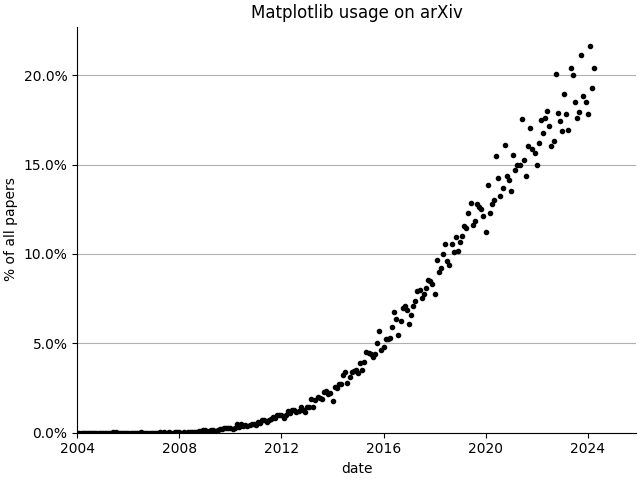
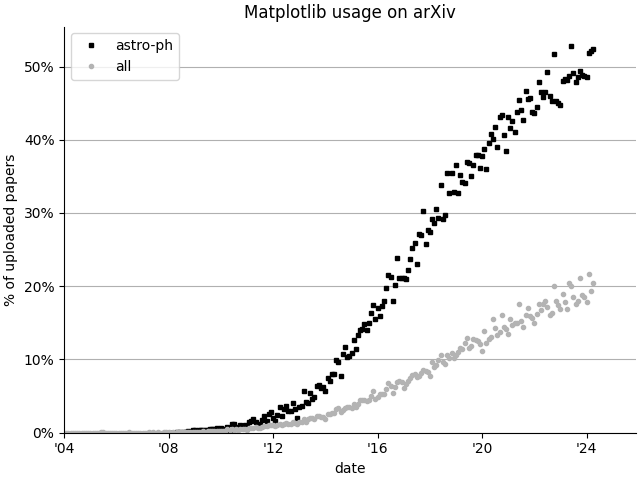
ENH: add a script that filters to just astro-ph

diff --git a/by_cat.py b/by_cat.py
@@ -1,0 +1,137 @@
+import datetime
+from functools import lru_cache
+import time
+import hashlib
+from pathlib import Path
+
+import matplotlib.pyplot as plt
+from matplotlib.ticker import PercentFormatter
+import matplotlib as mpl
+
+import numpy as np
+import pandas as pd
+
+import requests
+import feedparser
+import tqdm
+
+mpl.rcParams["date.autoformatter.year"] = "'%y"
+
+# read data
+raw_data = pd.read_parquet("results.parquet")
+Path("cache").mkdir(exist_ok=True)
+
+
+@lru_cache(10240)
+def get(url):
+    # wrap requests.get in caching + rate limiting
+    fn = hashlib.md5(url.encode()).hexdigest()
+    cache_path = Path("cache") / fn
+    if cache_path.exists():
+        with open(cache_path) as fin:
+            return fin.read()
+
+    ret = requests.get(url)
+    with open(cache_path, "w") as fout:
+        fout.write(ret.text)
+
+    # arxiv as a on-your-honor rate limit at 1 per 3s (!!)
+    time.sleep(3)
+    return ret.text
+
+
+def entry_to_id(entry):
+    """Convert id in entry into id extracted from pdf filenames."""
+    if not entry["guidislink"]:
+        raise ValueError
+    arxivid, v, _ = entry["id"][21:].partition("v")
+    return arxivid
+
+
+res = {}
+# this is very long (10hr+) the first time it is run, the caching helps
+for month in tqdm.tqdm(
+    [f"20{year:02d}-{month:02d}-01" for year in range(8, 25) for month in range(1, 13)]
+):
+    print(month)
+    # in 2009 astro-ph was split into 6 sub-categories
+    if month < "2009-01":
+        cats = "cat:astro-ph"
+    else:
+        cats = "+OR+".join(
+            f"cat:astro-ph.{sc}" for sc in "GA,CO,EP,HE,IM,SR".split(",")
+        )
+    parsed = []
+    one_month = raw_data[raw_data["date"] == month]
+    if not len(one_month):
+        continue
+    one_month.insert(0, "arxiv_id", one_month["filename"].str[5:-4])
+    # do in 150 paper chunks to stay below maximum URL length
+    for j in tqdm.tqdm(range(0, len(one_month), 150)):
+        ids = ",".join(one_month["arxiv_id"][j : j + 150])
+        url = f"http://export.arxiv.org/api/query?search_query={cats}&id_list={ids}&max_results=150"
+        parsed.append(feedparser.parse(get(url)))
+    # make a 1 column DataFrame to merge with the raw data to select only the astro papers.
+    # probably exists a better way.
+    astroph = pd.DataFrame(
+        {"arxiv_id": [entry_to_id(e) for b in parsed for e in b["entries"]]}
+    )
+    res[month] = one_month.merge(astroph, on="arxiv_id").has_matplotlib.mean()
+    print(f"{month}: {res[month]}")
+
+# make series of astro-ph papers by month
+astro = pd.Series(list(res.values()), index=pd.to_datetime(list(res)))
+
+# rmake series of astro-ph papers by month
+by_month = raw_data.groupby("date").has_matplotlib.mean()
+
+# size for half page figure on letter paper
+# figsize = np.array([(8.5 - 2) * 0.45, 3])
+figsize = None
+# get figure
+fig, ax = plt.subplots(layout="constrained", figsize=figsize)
+# plot the data
+ax.plot(astro, "s", color="k", ms=3, label="astro-ph")
+ax.plot(by_month, "o", color=".7", ms=3, label="all")
+# add a legend
+ax.legend()
+
+# over-ride the default auto limits
+ax.set_xlim(left=datetime.date(2004, 1, 1))
+ax.set_ylim(bottom=0)
+
+# turn on a horizontal grid
+ax.grid(axis="y")
+
+# remove the top and right spines
+ax.spines.right.set_visible(False)
+ax.spines.top.set_visible(False)
+
+# format y-ticks a percent
+ax.yaxis.set_major_formatter(PercentFormatter(xmax=1))
+
+# add title and labels
+ax.set_xlabel("date")
+ax.set_ylabel("% of uploaded papers")
+ax.set_title("Matplotlib usage on arXiv")
+
+# output
+fig.savefig("fancy_plot.png")
+plt.show()
+
+
+# this would seem to be a better path to get all the astro papers, but after
+# ~3k entries stops returning contents in the payload.  think this is a
+# limitation on the server side that they trim huge searches
+
+# count = 0
+# cat_search_parsed = []
+# for j in tqdm.tqdm(range(5*12*20)):
+#     url = f'http://export.arxiv.org/api/query?search_query={cats}&max_results=500&start={count}&sortBy=submittedDate&sortOrder=descending'
+#     print(url)
+#     feed = feedparser.parse(get(url))
+#     cat_search_parsed.extend(feed['entries'])
+#     count += len(feed['entries'])
+#     if len(feed['entries']) == 0:
+#         break
+#
